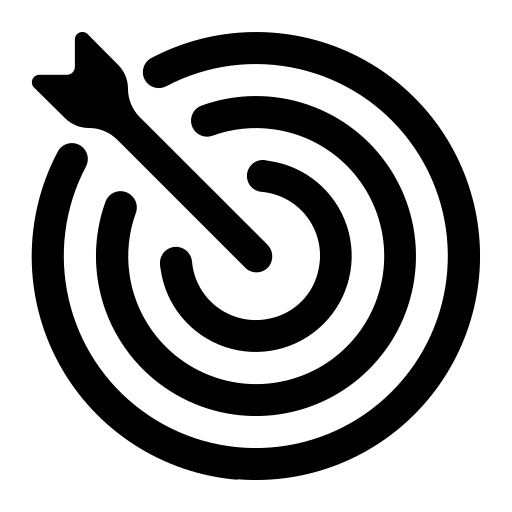
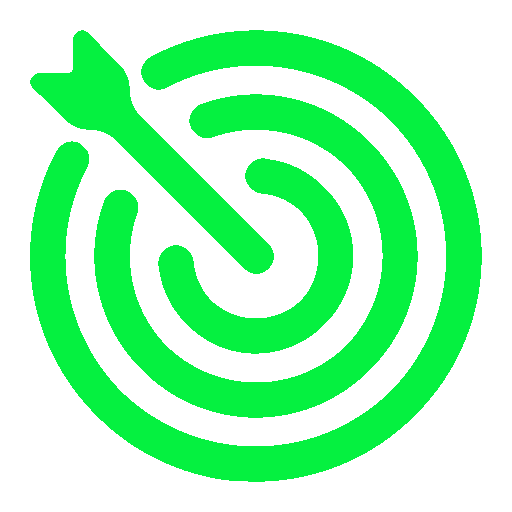
first commit

diff --git a/index.html b/index.html
@@ -5,21 +5,18 @@
 	<center>
 		<header>
 		<div class='header'>
-			<center>
-			  <img src='images/sfondo3.jpg' alt='logo' width='1000' height="250"/>
-			</center>
+			<div id='social'>
+		<center>
+			<a href="https://www.instagram.com/marcgram769" target="_blank"><img src="images/logoinstagram.png" width='40'hspace='40' vspace='10'></a>
+			<a href="mailto:marco.birriolo41@gmail.com" target="_blank"><img src="images/logoG.png" width='40'hspace='40' vspace='10'></a>
+			<a href='https://www.linkedin.com/in/marco-birriolo-4bb04719b/' target='_blank'><img src='images/logolinkedin.png' width='40'hspace='40' vspace='10'></a>
+		</center>
+			</div>
 			</div>
 	</header>
 </center>
 
-  <div id='social'>
-<center>
-  <a href="https://www.instagram.com/marcgram769" target="_blank"><img src="images/logoinstagram.png" width='30'hspace='30'></a>
-  <a href="mailto:marco.birriolo41@gmail.com" target="_blank"><img src="images/logoG.png" width='30'hspace='30'></a>
-  <a href='https://www.linkedin.com/in/marco-birriolo-4bb04719b/' target='_blank'><img src='images/logolinkedin.png' width='30'hspace='30'></a>
-</center>
-  </div>
-	<link href="style2.css" rel='stylesheet'>
+  <link href="style2.css" rel='stylesheet'>
 
 	<meta charset="UTF-8">
 	<meta name="author" content="Marco birriolo">
@@ -33,34 +30,34 @@
 
 	<main>
 		<article align="center">
-      <img src='images/marcuss2i.png' align='left'width="350" height='200' vspace='25'>
+      <img src='images/marcuss2i.png' align='center'width="350" height='200' vspace='25'>
 			<div class="article">
 				<p class="article-title" style='border:5px solid '>Chi sono?</p>
 				<div class="content">
-					<p>Ciao a tutti! Mi chiamo Marco Birriolo, ho 21 anni e sono uno studente di <font color=green>start2impact</font>.</p>
+					<p><font color='ffffff'> Ciao a tutti! Mi chiamo Marco Birriolo, ho 21 anni e sono uno studente di </font> <font color=05F140>start2impact.</font></p>
 
-					<p>La passione per la <b>programmazione</b> è nata così per gioco.. non conoscevo bene questo mondo, ma da un anno a questa parte ho iniziato ad appassionarmi e ad informarmi sull'argomento. </p>
+					<p><font color='ffffff'>La passione per la <b>programmazione</b> è nata così per gioco.. non conoscevo bene questo mondo, ma da un anno a questa parte ho iniziato ad appassionarmi e ad informarmi sull'argomento.</font></p>
 				</div>
 			</div>
 		</article>
 
 		<article align="center">
-			<img src='images/competenze.png' align='left' width="350" height='300'>
+			<img src='images/competenze.png' align='center' width="350" height='300'>
 			<div class="article">
 				<p class="article-title" style='border:5px solid'>Cosa so fare?</p>
 				<div class="content">
-					<p>Beh, ancora so fare ben poco, sono alle prime armi in questo campo. Inoltre ho acquisito delle competenze come: <ul><b><li>HTML</li> <li>CSS</li></b></ul> Sto dando tutto me stesso per imparare in fretta nuovi argomenti di pogrammazione.</p>
+					<p><font color='ffffff'>Beh, ancora so fare ben poco, sono alle prime armi in questo campo. Inoltre ho acquisito delle competenze come: <ul><b><li>HTML</li> <li>CSS</li></b></ul> Sto dando tutto me stesso per imparare in fretta nuovi argomenti di pogrammazione.</font></p>
 				</div>
 			</div>
 		</article>
 
 		<article align="center">
-			<img class='profile-pic' src='images/target-icon.png' align='left'>
+			<img class='profile-pic' src='images/target-icon.png' align='center'>
 			<div class="article">
 				<p class="article-title" style='border:5px solid'>Obiettivi</p>
 				<div class="content">
-			 <p>Sto lavorando per diventare un programmatore a 360°.<br>
-			 <br>Il mio obiettivo è quello di imparare 'Solidity' così da creare uno <b>Smart Contract</b> , perchè mi piacerebbe in futuro creare Smart Contracts e continuare su quella strada, senza abbandonare la programmazione.</p>
+			 <p><font color='ffffff'>Sto lavorando per diventare un programmatore a 360°.<br>
+			 <br>Il mio obiettivo è quello di imparare 'Solidity' così da creare uno <b>Smart Contract</b> , perchè mi piacerebbe in futuro creare Smart Contracts e continuare su quella strada, senza abbandonare la programmazione.</font></p>
 			</div>
 		</div>
 	</article>

diff --git a/marcos.html b/marcos.html
@@ -5,20 +5,16 @@
 	<center>
 		<header>
 		<div class='header'>
-			<center>
-			  <img src='images/sfondo3.jpg' alt='logo' width='1000' height="250"/>
-			</center>
+			<div id='social'>
+		<center>
+			<a href="https://www.instagram.com/marcgram769" target="_blank"><img src="images/logoinstagram.png" width='40'hspace='40' vspace='10'></a>
+			<a href="mailto:marco.birriolo41@gmail.com" target="_blank"><img src="images/logoG.png" width='40'hspace='40' vspace='10'></a>
+			<a href='https://www.linkedin.com/in/marco-birriolo-4bb04719b/' target='_blank'><img src='images/logolinkedin.png' width='40'hspace='40' vspace='10'></a>
+		</center>
+			</div>
 			</div>
 	</header>
 </center>
-
-  <div id='social'>
-<center>
-  <a href="https://www.instagram.com/marcgram769" target="_blank"><img src="images/logoinstagram.png" width='30'hspace='30'></a>
-  <a href="mailto:marco.birriolo41@gmail.com" target="_blank"><img src="images/logoG.png" width='30'hspace='30'></a>
-  <a href='https://www.linkedin.com/in/marco-birriolo-4bb04719b/' target='_blank'><img src='images/logolinkedin.png' width='30'hspace='30'></a>
-</center>
-  </div>
 	<link href="style2.css" rel='stylesheet'>
 
 	<meta charset="UTF-8">
@@ -33,34 +29,34 @@
 
 	<main>
 		<article align="center">
-      <img src='images/marcuss2i.png' align='left'width="350" height='200' vspace='25'>
+      <img src='images/marcuss2i.png' align='center'width="350" height='200' vspace='25'>
 			<div class="article">
 				<p class="article-title" style='border:5px solid '>Chi sono?</p>
 				<div class="content">
-					<p>Ciao a tutti! Mi chiamo Marco Birriolo, ho 21 anni e sono uno studente di <font color=green>start2impact</font>.</p>
+					<p><font color='ffffff'> Ciao a tutti! Mi chiamo Marco Birriolo, ho 21 anni e sono uno studente di </font> <font color=05F140>start2impact.</font></p>
 
-					<p>La passione per la <b>programmazione</b> è nata così per gioco.. non conoscevo bene questo mondo, ma da un anno a questa parte ho iniziato ad appassionarmi e ad informarmi sull'argomento. </p>
+					<p><font color='ffffff'>La passione per la <b>programmazione</b> è nata così per gioco.. non conoscevo bene questo mondo, ma da un anno a questa parte ho iniziato ad appassionarmi e ad informarmi sull'argomento.</font></p>
 				</div>
 			</div>
 		</article>
 
 		<article align="center">
-			<img src='images/competenze.png' align='left' width="350" height='300'>
+			<img src='images/skill.png.png' align='center' width="350" height='300'>
 			<div class="article">
 				<p class="article-title" style='border:5px solid'>Cosa so fare?</p>
 				<div class="content">
-					<p>Beh, ancora so fare ben poco, sono alle prime armi in questo campo. Inoltre ho acquisito delle competenze come: <ul><b><li>HTML</li> <li>CSS</li></b></ul> Sto dando tutto me stesso per imparare in fretta nuovi argomenti di pogrammazione.</p>
+					<p><font color='ffffff'>Beh, ancora so fare ben poco, sono alle prime armi in questo campo. Inoltre ho acquisito delle competenze come: <ul><b><li>HTML</li> <li>CSS</li></b></ul> Sto dando tutto me stesso per imparare in fretta nuovi argomenti di pogrammazione.</font></p>
 				</div>
 			</div>
 		</article>
 
 		<article align="center">
-			<img class='profile-pic' src='images/target-icon.png' align='left'>
+			<img class='profile-pic' src='images/target-icon.png' align='center'>
 			<div class="article">
 				<p class="article-title" style='border:5px solid'>Obiettivi</p>
 				<div class="content">
-			 <p>Sto lavorando per diventare un programmatore a 360°.<br>
-			 <br>Il mio obiettivo è quello di imparare 'Solidity' così da creare uno <b>Smart Contract</b> , perchè mi piacerebbe in futuro creare Smart Contracts e continuare su quella strada, senza abbandonare la programmazione.</p>
+			 <p><font color='ffffff'>Sto lavorando per diventare un programmatore a 360°.<br>
+			 <br>Il mio obiettivo è quello di imparare 'Solidity' così da creare uno <b>Smart Contract</b> , perchè mi piacerebbe in futuro creare Smart Contracts e continuare su quella strada, senza abbandonare la programmazione.</font></p>
 			</div>
 		</div>
 	</article>

diff --git a/style2.css b/style2.css
@@ -10,7 +10,7 @@ html[Attributes Style] {
 }
 
 html {
-    background-color:#ffffff;
+    background-color:#000000;
 }
 element.style {
 }
@@ -57,9 +57,9 @@ article .profile-pic {
 
 div.header {
     padding: 10px;
-    background-color: green;
+    background-color: #05F140;
     width: 1000px;
-    height: 250px;
+    height: 50px;
   }
 
 
@@ -75,7 +75,7 @@ div {
 }
 
 div.article {
-    background-color:#ffffff;
+    background-color:#000000;
     max-width: 500px;
     margin: auto;
     padding: 15px;
@@ -88,7 +88,7 @@ div.article .article-title {
     font-size: 55px;
     font-family: 'Verdana';
     margin: 3px;
-    color: green;
+    color: #05F140;
 
 }
 
